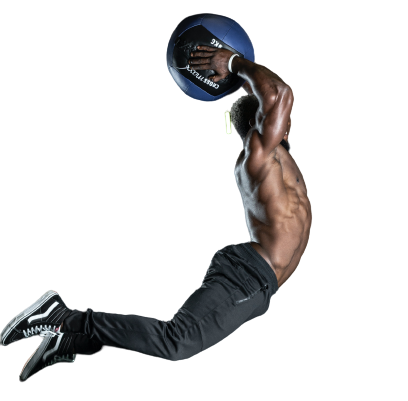
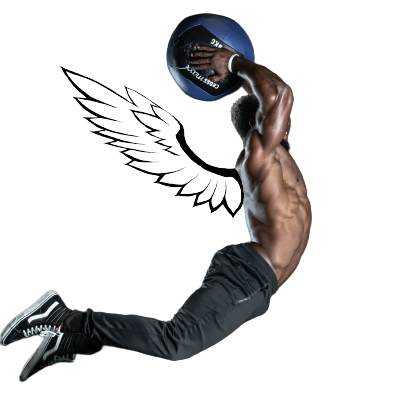
continue the project

Changed region(s): [[0.1471, 0.1496, 0.6176, 0.5387], [0.5588, 0.2693, 0.5882, 0.3292]]

diff --git a/src/components/About/About.jsx b/src/components/About/About.jsx
@@ -1,6 +1,6 @@
+import { ballBasket, manRunner, titleBg } from "../../assets";
 import MainButton from "../MainButton";
 import AboutCards from "./AboutCards";
-import { manRunner, ballBasket } from "../../assets";
 
 const About = () => {
   return (
@@ -12,10 +12,15 @@ const About = () => {
         <div className="container page-padding">
           <div
             id="about"
-            className=" grid grid-cols-[50fr,50fr] gap-[3rem] md1000:grid-cols-1 md1000:items-center md1000:flex md1000:flex-col md1000:text-center md1000:w-[full]">
-            <p className="text-black font-semibold text-[24px] relative uppercase z-10 pl-16 md1000:pl-0">
+            className=" grid grid-cols-[50fr,50fr] gap-[3rem] md1000:grid-cols-1 md1000:items-center md1000:flex md1000:flex-col md1000:text-center md1000:w-[full] relative">
+            <p className="text-black font-semibold text-[24px] relative uppercase z-10 pl-16 md1000:pl-0 ml-9 md1200:ml-2 md1000:ml-0">
               ABOUT US
             </p>
+            <img
+              src={titleBg}
+              alt="text_bg"
+              className="w-[20%] absolute top[-3px] md1000:w-[22rem]"
+            />
             <div></div>
             <div className="md1000:items-center md1000:flex md1000:flex-col md1000:text-center md1000:w-[full]">
               <h2 className="font-bold text-[40px] text-left md1000:text-center uppercase min450:text-[32px] min620:text-[36px] hero-h1 mb-5 md1000:mb-10">
@@ -29,9 +34,12 @@ const About = () => {
               <MainButton text="Our classes" bordertext="black" />
             </div>
             <div className="relative  md1000:hidden">
-              <img src={ballBasket} alt="ballBasket" className="basketball md1200:hidden"/>
-              <img src={manRunner} alt="manRunner" className=""/>
-              
+              <img
+                src={ballBasket}
+                alt="ballBasket"
+                className="basketball md1200:hidden"
+              />
+              <img src={manRunner} alt="manRunner" className="" />
             </div>
           </div>
         </div>

diff --git a/src/assets/index.js b/src/assets/index.js
@@ -1,4 +1,5 @@
 import logo from "./logo/logo.png";
 import manRunner from "./about-us/runner.png";
 import ballBasket from "./about-us/basketball.png"
-export { logo, manRunner, ballBasket };
+import titleBg from "./about-us/title-bg.svg"
+export { logo, manRunner, ballBasket, titleBg };
